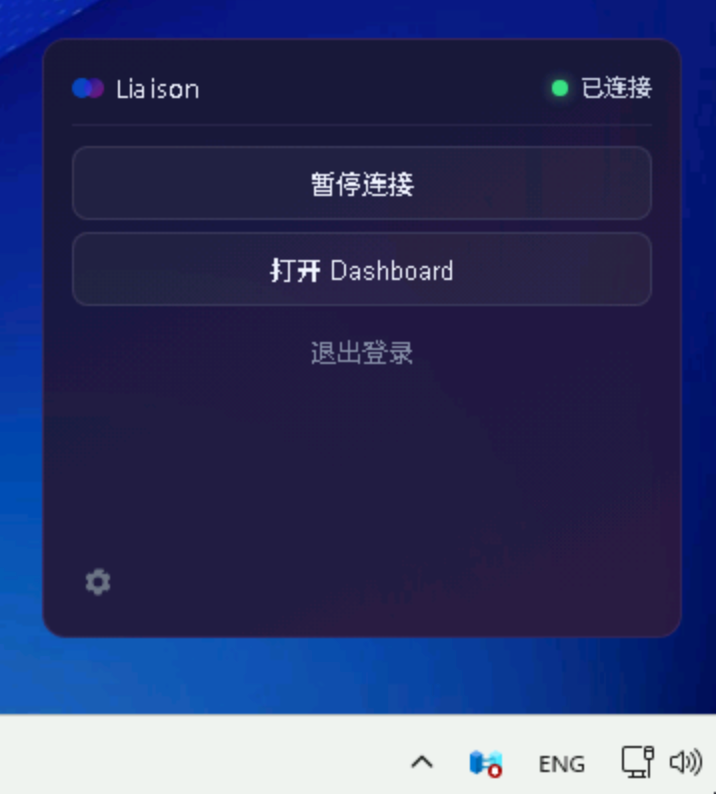
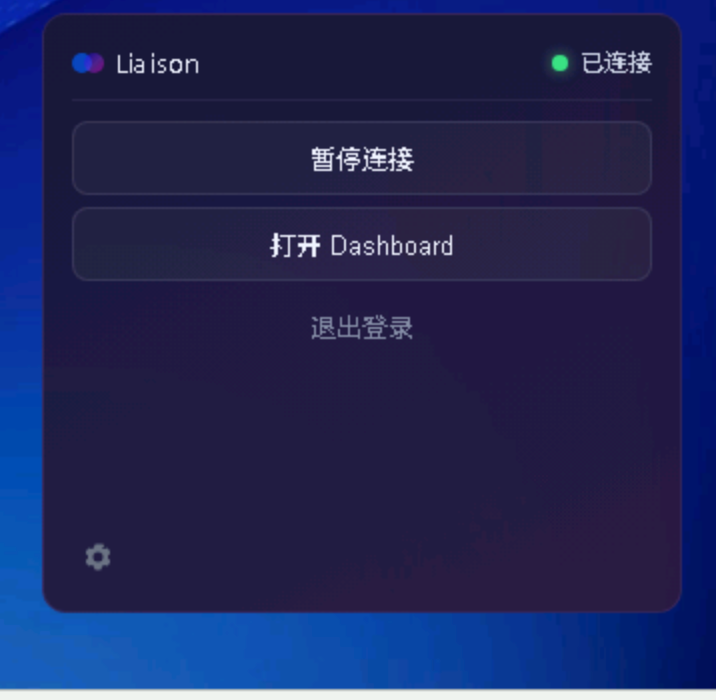
docs(readme): localize Liaison Desktop section to zh/ja/ko/es/fr/de + tighten Windows screenshot crop

diff --git a/README_ja.md b/README_ja.md
@@ -91,6 +91,37 @@ cd liaison-1.5.0-docker-amd64
 
 ### コネクター導入
 
+ターゲット端末に応じて 2 つのインストール経路から選択してください。
+
+#### オプション A — Liaison Desktop (GUI、macOS / Windows)
+
+コネクターをラップするメニューバー / トレイアプリ。ワンクリックサインイン、ステータス表示、一時停止 / 再開、ダッシュボードへのワンクリックアクセスを提供します。ノート PC やワークステーションに最適。
+
+<div align="center">
+
+| macOS | Windows |
+|:---:|:---:|
+| <img src="docs/images/desktop-client/popup-macos.png" alt="Liaison Desktop on macOS" width="360" /> | <img src="docs/images/desktop-client/popup-windows.png" alt="Liaison Desktop on Windows" width="360" /> |
+
+</div>
+
+- **ワンクリックサインイン** — ブラウザ仲介の OAuth フロー、PAT は OS のキーチェーン (macOS Keychain、Windows 資格情報マネージャー) に保存
+- **マルチデプロイ対応** — デフォルトは `liaison.cloud`、左下の歯車アイコンから任意のプライベートデプロイへ即座に切替可能（再インストール不要）
+- **ハートビート連動のステータス** — 接続中 → オンライン遷移は実際のトンネル状態を反映 (プロセス生存だけではない)
+- **再起動を跨いで保持される一時停止** — ユーザー意図がディスクに永続化され、再起動後も Paused のまま
+
+**ダウンロード (ローリングプレリリース、`feat/desktop-client` の最新ビルド)：**
+
+| プラットフォーム | ファイル |
+|:---|:---|
+| macOS (Apple Silicon + Intel ユニバーサル) | [`Liaison_0.1.0_universal.dmg`](https://github.com/liaisonio/liaison/releases/download/desktop-latest/Liaison_0.1.0_universal.dmg) |
+| Windows (.msi インストーラー) | [`Liaison_0.1.0_x64_en-US.msi`](https://github.com/liaisonio/liaison/releases/download/desktop-latest/Liaison_0.1.0_x64_en-US.msi) |
+| Windows (.exe NSIS、アンインストール時にキーチェーンクリーンアップ) | [`Liaison_0.1.0_x64-setup.exe`](https://github.com/liaisonio/liaison/releases/download/desktop-latest/Liaison_0.1.0_x64-setup.exe) |
+
+> v0.1 のインストーラーは未署名です。macOS Gatekeeper と Windows SmartScreen が初回起動時に警告を出します — macOS は右クリック → 開く、Windows は「詳細情報」→「実行」を選択してください。Windows には WebView2 Runtime が必要です (Win10 1803+ と Win11 にプリインストール済み)。
+
+#### オプション B — CLI インストールコマンド (Linux / ヘッドレス)
+
 Web コンソールで **コネクターを新規作成** し、UI から対象プラットフォーム用のインストールコマンドをコピーして対象デバイスで実行すると、コネクターがコンソールに自動で現れます。
 
 ---

diff --git a/README_fr.md b/README_fr.md
@@ -91,6 +91,37 @@ Les données (`data/` SQLite), les certificats TLS (`certs/`) et les logs (`logs
 
 ### Installer un connecteur
 
+Deux chemins d'installation, choisissez celui adapté à la machine cible.
+
+#### Option A — Liaison Desktop (GUI, macOS / Windows)
+
+Application de barre de menus / barre d'état système qui encapsule le connecteur et offre une connexion en un clic, un indicateur d'état, pause / reprise et un accès au tableau de bord en un clic. Idéal pour les ordinateurs portables et postes de travail.
+
+<div align="center">
+
+| macOS | Windows |
+|:---:|:---:|
+| <img src="docs/images/desktop-client/popup-macos.png" alt="Liaison Desktop on macOS" width="360" /> | <img src="docs/images/desktop-client/popup-windows.png" alt="Liaison Desktop on Windows" width="360" /> |
+
+</div>
+
+- **Connexion en un clic** — flux OAuth via navigateur, PAT stocké dans le trousseau du système (Keychain sur macOS, Gestionnaire d'identifiants sur Windows)
+- **Multi-déploiement** — par défaut sur `liaison.cloud` ; l'icône d'engrenage en bas à gauche permet de basculer vers n'importe quel déploiement privé sans réinstaller
+- **État sensible au heartbeat** — les transitions Connexion → En ligne reflètent l'état réel du tunnel, pas seulement la vivacité du processus
+- **Pause qui survit à la fermeture** — l'intention est persistée sur disque, une session en pause le reste après relance
+
+**Télécharger (pré-release roulante, dernier build de `feat/desktop-client`) :**
+
+| Plateforme | Fichier |
+|:---|:---|
+| macOS (Apple Silicon + Intel, universel) | [`Liaison_0.1.0_universal.dmg`](https://github.com/liaisonio/liaison/releases/download/desktop-latest/Liaison_0.1.0_universal.dmg) |
+| Windows (installateur .msi) | [`Liaison_0.1.0_x64_en-US.msi`](https://github.com/liaisonio/liaison/releases/download/desktop-latest/Liaison_0.1.0_x64_en-US.msi) |
+| Windows (.exe NSIS, avec nettoyage du trousseau à la désinstallation) | [`Liaison_0.1.0_x64-setup.exe`](https://github.com/liaisonio/liaison/releases/download/desktop-latest/Liaison_0.1.0_x64-setup.exe) |
+
+> Les installateurs v0.1 ne sont pas signés. Gatekeeper macOS et Windows SmartScreen avertiront au premier lancement — clic droit → Ouvrir sur macOS, ou « Informations supplémentaires » → « Exécuter quand même » sur Windows. WebView2 Runtime est requis sur Windows ; Win10 1803+ et Win11 l'incluent.
+
+#### Option B — Commande d'installation CLI (Linux / headless)
+
 **Créez un nouveau connecteur** dans la console Web, copiez la commande d'installation correspondant à votre plateforme depuis l'interface et exécutez-la sur la machine cible. Le connecteur apparaîtra automatiquement dans la console.
 
 ---

diff --git a/README_es.md b/README_es.md
@@ -91,6 +91,37 @@ Los datos (`data/` SQLite), certificados TLS (`certs/`) y logs (`logs/`) se mont
 
 ### Instalar el conector
 
+Dos rutas de instalación, elige la que se adapte al dispositivo objetivo.
+
+#### Opción A — Liaison Desktop (GUI, macOS / Windows)
+
+App de barra de menú / bandeja del sistema que envuelve al conector y ofrece inicio de sesión con un clic, indicador de estado, pausar / reanudar y acceso al dashboard con un clic. Ideal para portátiles y estaciones de trabajo.
+
+<div align="center">
+
+| macOS | Windows |
+|:---:|:---:|
+| <img src="docs/images/desktop-client/popup-macos.png" alt="Liaison Desktop on macOS" width="360" /> | <img src="docs/images/desktop-client/popup-windows.png" alt="Liaison Desktop on Windows" width="360" /> |
+
+</div>
+
+- **Inicio de sesión con un clic** — flujo OAuth mediado por navegador, PAT almacenado en el llavero del SO (Keychain en macOS, Administrador de credenciales en Windows)
+- **Multi-despliegue** — por defecto en `liaison.cloud`; el icono de engranaje en la esquina inferior izquierda permite cambiar a cualquier despliegue privado sin reinstalar
+- **Estado consciente del heartbeat** — las transiciones Conectando → En línea reflejan el estado real del túnel, no solo la vida del proceso
+- **Pausa que sobrevive al cierre** — la intención se persiste en disco, así que una sesión pausada permanece pausada tras relanzar
+
+**Descarga (pre-release rodante, último build de `feat/desktop-client`):**
+
+| Plataforma | Archivo |
+|:---|:---|
+| macOS (Apple Silicon + Intel, universal) | [`Liaison_0.1.0_universal.dmg`](https://github.com/liaisonio/liaison/releases/download/desktop-latest/Liaison_0.1.0_universal.dmg) |
+| Windows (instalador .msi) | [`Liaison_0.1.0_x64_en-US.msi`](https://github.com/liaisonio/liaison/releases/download/desktop-latest/Liaison_0.1.0_x64_en-US.msi) |
+| Windows (.exe NSIS, con limpieza de keychain al desinstalar) | [`Liaison_0.1.0_x64-setup.exe`](https://github.com/liaisonio/liaison/releases/download/desktop-latest/Liaison_0.1.0_x64-setup.exe) |
+
+> Los instaladores de v0.1 no están firmados. Gatekeeper de macOS y Windows SmartScreen avisarán al primer arranque — clic derecho → Abrir en macOS, o "Más información" → "Ejecutar de todos modos" en Windows. WebView2 Runtime es necesario en Windows; Win10 1803+ y Win11 lo incluyen.
+
+#### Opción B — Comando de instalación CLI (Linux / sin cabeza)
+
 **Crea un nuevo conector** en la consola web, copia el comando de instalación para tu plataforma desde la UI y ejecútalo en el dispositivo objetivo. El conector aparecerá automáticamente en la consola.
 
 ---

diff --git a/README_de.md b/README_de.md
@@ -91,6 +91,37 @@ Daten (`data/` SQLite), TLS-Zertifikate (`certs/`) und Logs (`logs/`) werden neb
 
 ### Konnektor installieren
 
+Zwei Installationswege, wähle den passenden für das Zielgerät.
+
+#### Option A — Liaison Desktop (GUI, macOS / Windows)
+
+Menüleisten- / Tray-App, die den Konnektor umschließt und Single-Click-Anmeldung, Statusanzeige, Pause / Fortsetzen sowie Ein-Klick-Zugriff auf das Dashboard bietet. Ideal für Laptops und Workstations.
+
+<div align="center">
+
+| macOS | Windows |
+|:---:|:---:|
+| <img src="docs/images/desktop-client/popup-macos.png" alt="Liaison Desktop on macOS" width="360" /> | <img src="docs/images/desktop-client/popup-windows.png" alt="Liaison Desktop on Windows" width="360" /> |
+
+</div>
+
+- **Ein-Klick-Anmeldung** — browservermittelter OAuth-Flow, PAT wird im OS-Schlüsselbund gespeichert (Keychain auf macOS, Anmeldeinformationsverwaltung auf Windows)
+- **Multi-Deployment** — Standard ist `liaison.cloud`; das Zahnrad-Symbol unten links erlaubt den Wechsel zu jedem privaten Deployment ohne Neuinstallation
+- **Heartbeat-bewusster Status** — Verbindung herstellen → Online-Übergänge spiegeln den tatsächlichen Tunnelzustand wider, nicht nur Prozess-Lebendigkeit
+- **Pause überlebt das Beenden** — Absicht auf Disk persistiert, eine pausierte Session bleibt nach Neustart pausiert
+
+**Download (Rolling Pre-Release, neuester Build aus `feat/desktop-client`):**
+
+| Plattform | Datei |
+|:---|:---|
+| macOS (Apple Silicon + Intel, universal) | [`Liaison_0.1.0_universal.dmg`](https://github.com/liaisonio/liaison/releases/download/desktop-latest/Liaison_0.1.0_universal.dmg) |
+| Windows (.msi-Installer) | [`Liaison_0.1.0_x64_en-US.msi`](https://github.com/liaisonio/liaison/releases/download/desktop-latest/Liaison_0.1.0_x64_en-US.msi) |
+| Windows (.exe NSIS, mit Keychain-Bereinigung beim Deinstallieren) | [`Liaison_0.1.0_x64-setup.exe`](https://github.com/liaisonio/liaison/releases/download/desktop-latest/Liaison_0.1.0_x64-setup.exe) |
+
+> Die v0.1-Installer sind unsigniert. macOS Gatekeeper und Windows SmartScreen warnen beim ersten Start — Rechtsklick → Öffnen auf macOS, oder „Weitere Informationen" → „Trotzdem ausführen" auf Windows. WebView2 Runtime ist auf Windows erforderlich; Win10 1803+ und Win11 enthalten es.
+
+#### Option B — CLI-Installationsbefehl (Linux / headless)
+
 **Erstelle einen neuen Konnektor** in der Web-Konsole, kopiere den Installationsbefehl für deine Plattform aus der UI und führe ihn auf dem Zielgerät aus. Der Konnektor erscheint automatisch in der Konsole.
 
 ---

diff --git a/README_ko.md b/README_ko.md
@@ -91,6 +91,37 @@ cd liaison-1.5.0-docker-amd64
 
 ### 커넥터 설치
 
+대상 기기에 맞춰 두 가지 설치 경로 중 하나를 선택하세요.
+
+#### 옵션 A — Liaison Desktop (GUI, macOS / Windows)
+
+커넥터를 감싸는 메뉴바 / 트레이 앱입니다. 원클릭 로그인, 상태 표시, 일시정지 / 재개, 대시보드 원클릭 접근을 제공합니다. 노트북과 워크스테이션에 적합합니다.
+
+<div align="center">
+
+| macOS | Windows |
+|:---:|:---:|
+| <img src="docs/images/desktop-client/popup-macos.png" alt="Liaison Desktop on macOS" width="360" /> | <img src="docs/images/desktop-client/popup-windows.png" alt="Liaison Desktop on Windows" width="360" /> |
+
+</div>
+
+- **원클릭 로그인** — 브라우저 OAuth 흐름, PAT 은 OS 키체인 (macOS Keychain, Windows 자격 증명 관리자)에 저장
+- **멀티 배포** — 기본값은 `liaison.cloud`, 좌하단 톱니바퀴 아이콘으로 어떤 프라이빗 배포로든 재설치 없이 즉시 전환
+- **하트비트 기반 상태** — 연결 중 → 온라인 전환은 실제 터널 상태를 반영 (프로세스 생존 여부만이 아님)
+- **재시작 후에도 유지되는 일시정지** — 사용자 의도가 디스크에 영속화되어 재시작 후에도 Paused 유지
+
+**다운로드 (롤링 프리릴리스, `feat/desktop-client` 최신 빌드):**
+
+| 플랫폼 | 파일 |
+|:---|:---|
+| macOS (Apple Silicon + Intel 유니버설) | [`Liaison_0.1.0_universal.dmg`](https://github.com/liaisonio/liaison/releases/download/desktop-latest/Liaison_0.1.0_universal.dmg) |
+| Windows (.msi 설치 프로그램) | [`Liaison_0.1.0_x64_en-US.msi`](https://github.com/liaisonio/liaison/releases/download/desktop-latest/Liaison_0.1.0_x64_en-US.msi) |
+| Windows (.exe NSIS, 제거 시 키체인 정리 포함) | [`Liaison_0.1.0_x64-setup.exe`](https://github.com/liaisonio/liaison/releases/download/desktop-latest/Liaison_0.1.0_x64-setup.exe) |
+
+> v0.1 설치 프로그램은 서명되지 않았습니다. macOS Gatekeeper 와 Windows SmartScreen 이 첫 실행 시 경고를 표시합니다 — macOS 는 우클릭 → 열기, Windows 는 "추가 정보" → "실행"을 선택하세요. Windows 에는 WebView2 Runtime 이 필요합니다 (Win10 1803+ 와 Win11 에 기본 포함).
+
+#### 옵션 B — CLI 설치 명령 (Linux / 헤드리스)
+
 웹 콘솔에서 **새 커넥터를 생성**하고, UI 에서 대상 플랫폼용 설치 명령을 복사해 대상 기기에서 실행하면 커넥터가 콘솔에 자동으로 나타납니다.
 
 ---

diff --git a/README_zh.md b/README_zh.md
@@ -91,6 +91,37 @@ cd liaison-1.5.0-docker-amd64
 
 ### 🔌 安装连接器
 
+两种安装方式，按目标设备类型选择。
+
+#### 方式 A — Liaison Desktop（图形界面，macOS / Windows）
+
+菜单栏 / 系统托盘应用，封装连接器本身，提供一键登录、状态指示、暂停 / 恢复以及一键打开 Dashboard。适合笔记本和工作站。
+
+<div align="center">
+
+| macOS | Windows |
+|:---:|:---:|
+| <img src="docs/images/desktop-client/popup-macos.png" alt="Liaison Desktop on macOS" width="360" /> | <img src="docs/images/desktop-client/popup-windows.png" alt="Liaison Desktop on Windows" width="360" /> |
+
+</div>
+
+- **一键登录** — 浏览器辅助 OAuth 流程，PAT 存入系统钥匙串（macOS Keychain，Windows 凭据管理器）
+- **多部署支持** — 默认连 `liaison.cloud`；左下角齿轮图标可随时切换到任意私有化部署，无需重装
+- **基于心跳的状态判断** — 连接中 → 已连接的切换反映真实隧道状态，不只看进程是否存活
+- **暂停状态跨重启保留** — 用户意图持久化到磁盘，暂停后退出再启动还是暂停
+
+**下载（rolling 预发布，`feat/desktop-client` 最新构建）：**
+
+| 平台 | 文件 |
+|:---|:---|
+| macOS（Apple Silicon + Intel 通用） | [`Liaison_0.1.0_universal.dmg`](https://github.com/liaisonio/liaison/releases/download/desktop-latest/Liaison_0.1.0_universal.dmg) |
+| Windows（.msi 安装器） | [`Liaison_0.1.0_x64_en-US.msi`](https://github.com/liaisonio/liaison/releases/download/desktop-latest/Liaison_0.1.0_x64_en-US.msi) |
+| Windows（.exe NSIS，卸载时清理 keychain） | [`Liaison_0.1.0_x64-setup.exe`](https://github.com/liaisonio/liaison/releases/download/desktop-latest/Liaison_0.1.0_x64-setup.exe) |
+
+> v0.1 的安装包未签名。macOS Gatekeeper 与 Windows SmartScreen 首次启动会提示——macOS 上右键点击 → 打开，Windows 上选「更多信息」→「仍要运行」。Windows 需要 WebView2 Runtime；Win10 1803+ 和 Win11 已自带。
+
+#### 方式 B — 命令行安装（Linux / 无图形环境）
+
 在 Web 控制台**新建连接器**，在页面上拷贝对应平台的安装命令，在目标设备上执行即可完成安装。安装后连接器会自动出现在控制台中。
 
 ---
